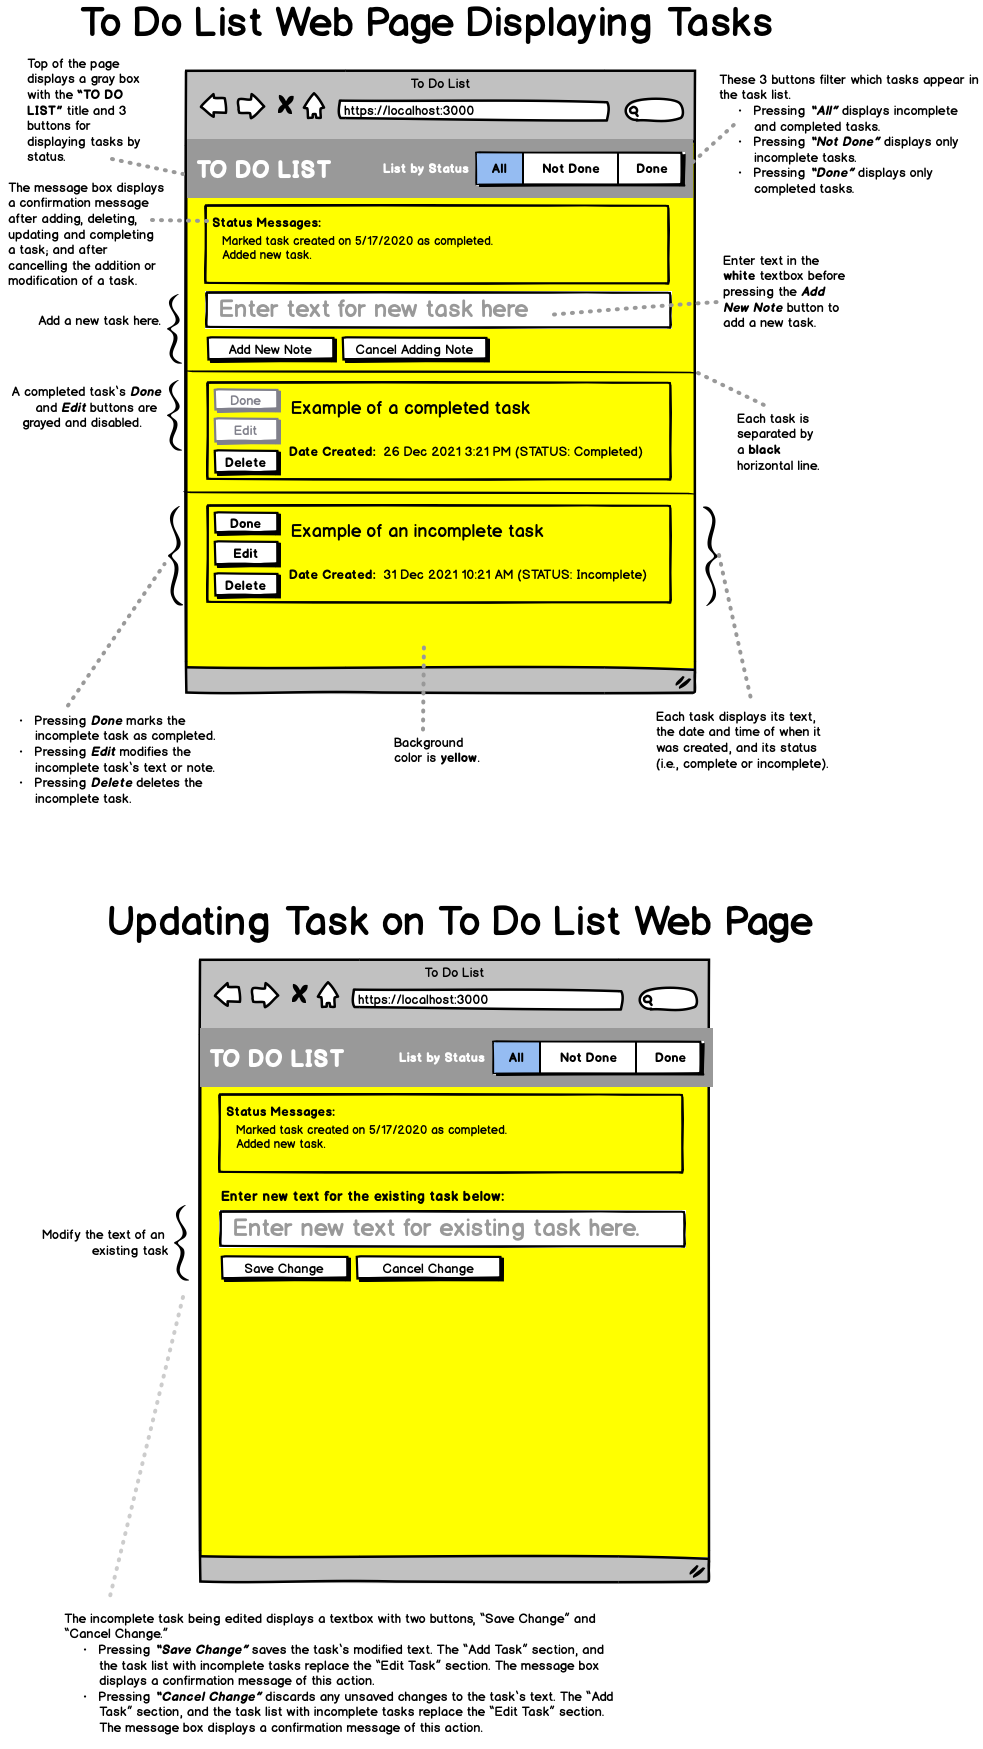
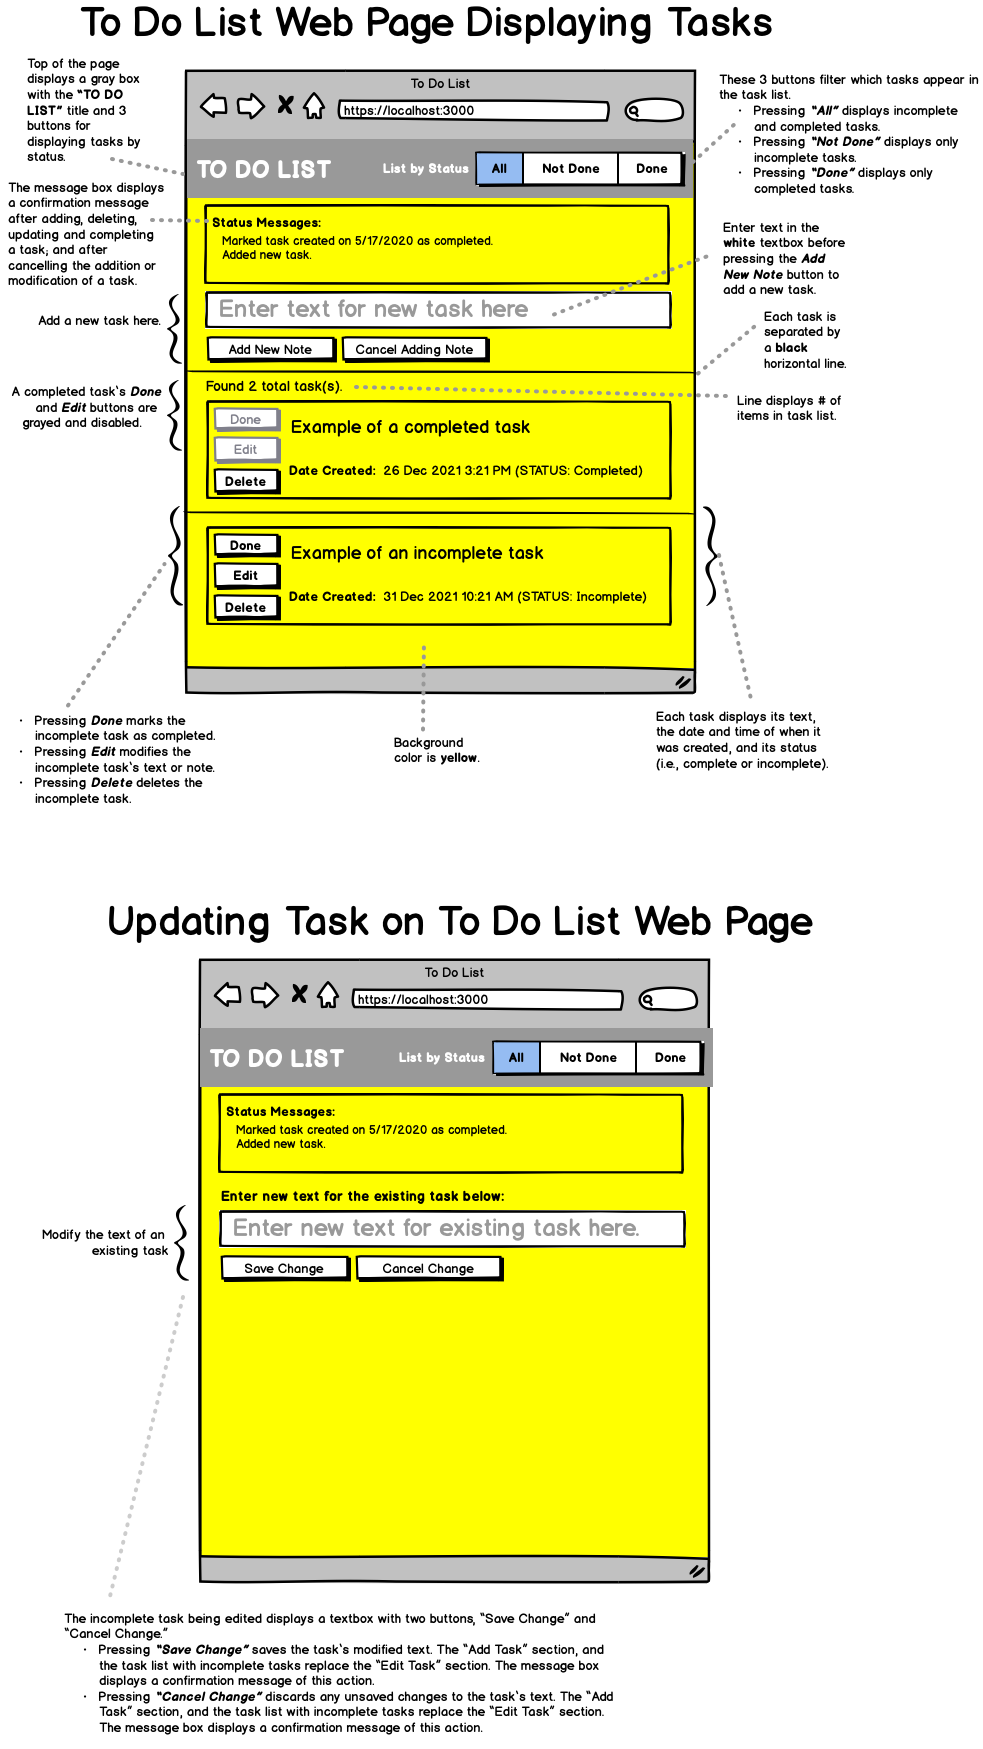
Added placeholder file so that users/ directory is created (otherwise app will error out if that directory doesn't exist). Also added tweaks to wireframe and commented out some console.log lines in index.html.

Changed region(s): [[0.1831, 0.2161, 0.7019, 0.3705], [0.7325, 0.1235, 0.8545, 0.2779]]

diff --git a/projects/todo/public_html/index.html b/projects/todo/public_html/index.html
@@ -397,7 +397,7 @@
         console.log("STATUS: document loaded.")
 
         let filterButtons = $(":button.filterBtn");
-        console.log(filterButtons);
+        // console.log(filterButtons);
 
         filterButtons.click(() => {
           let statusToView = event.srcElement.id;
